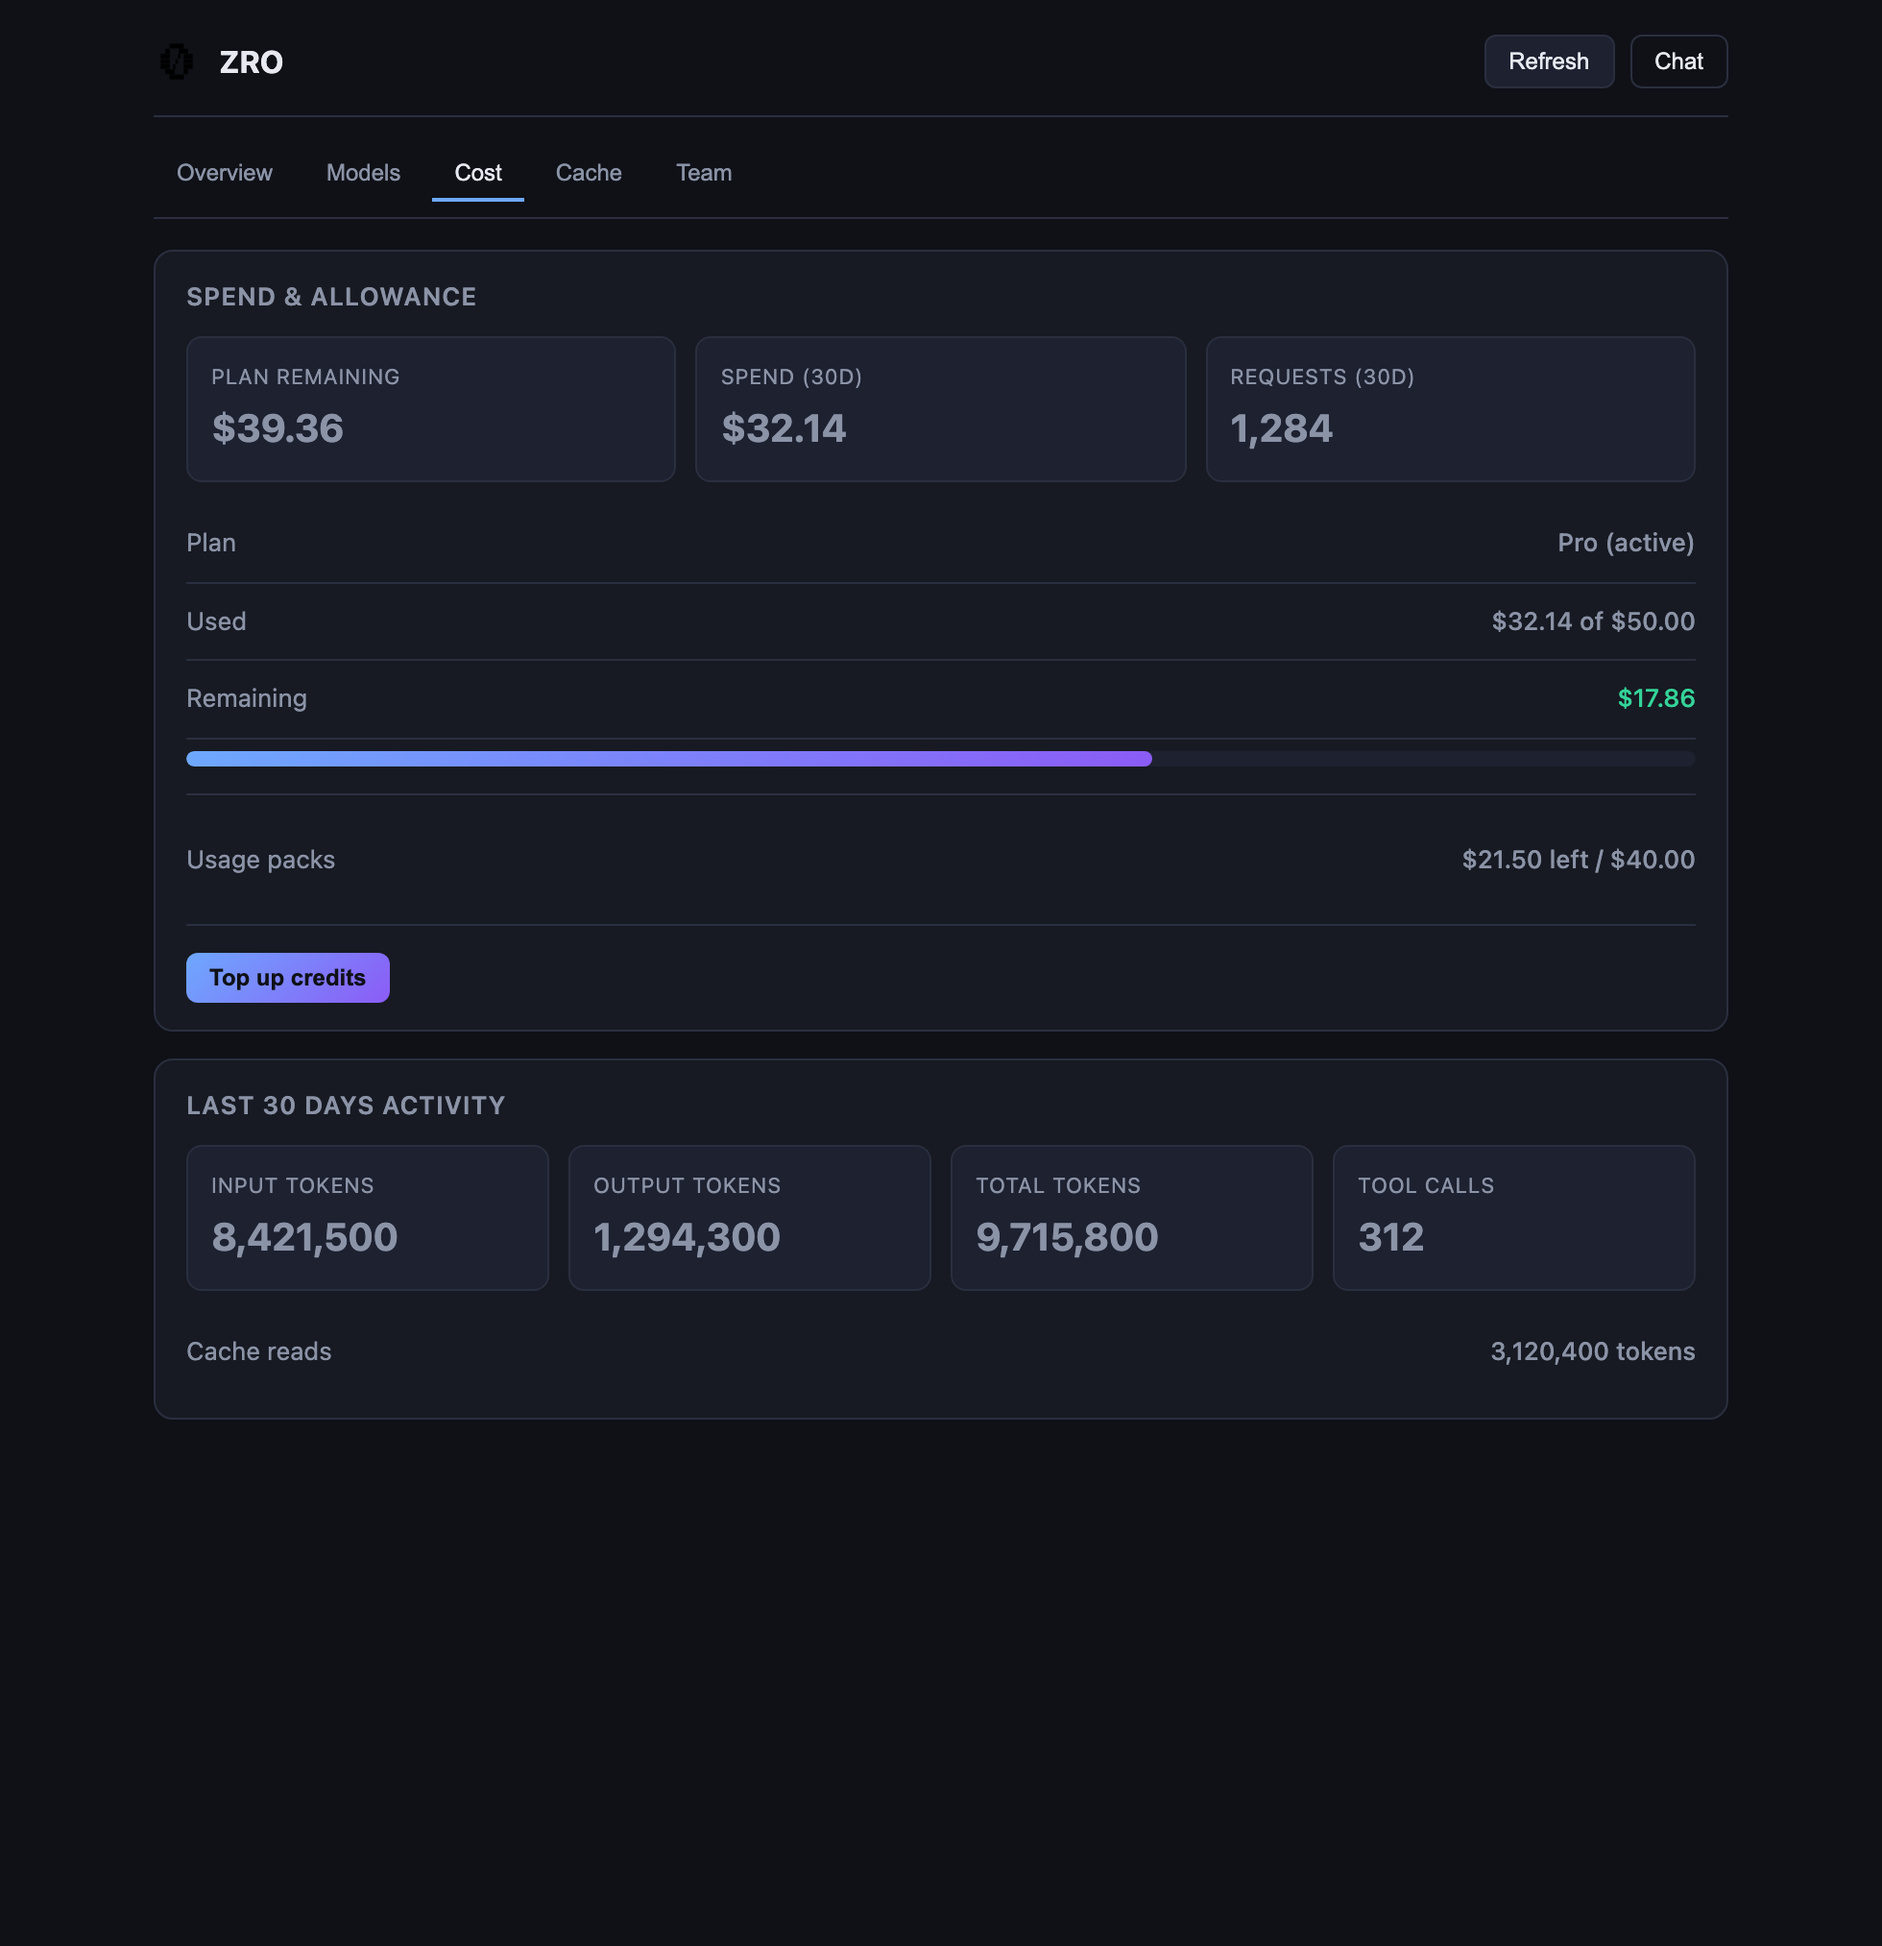
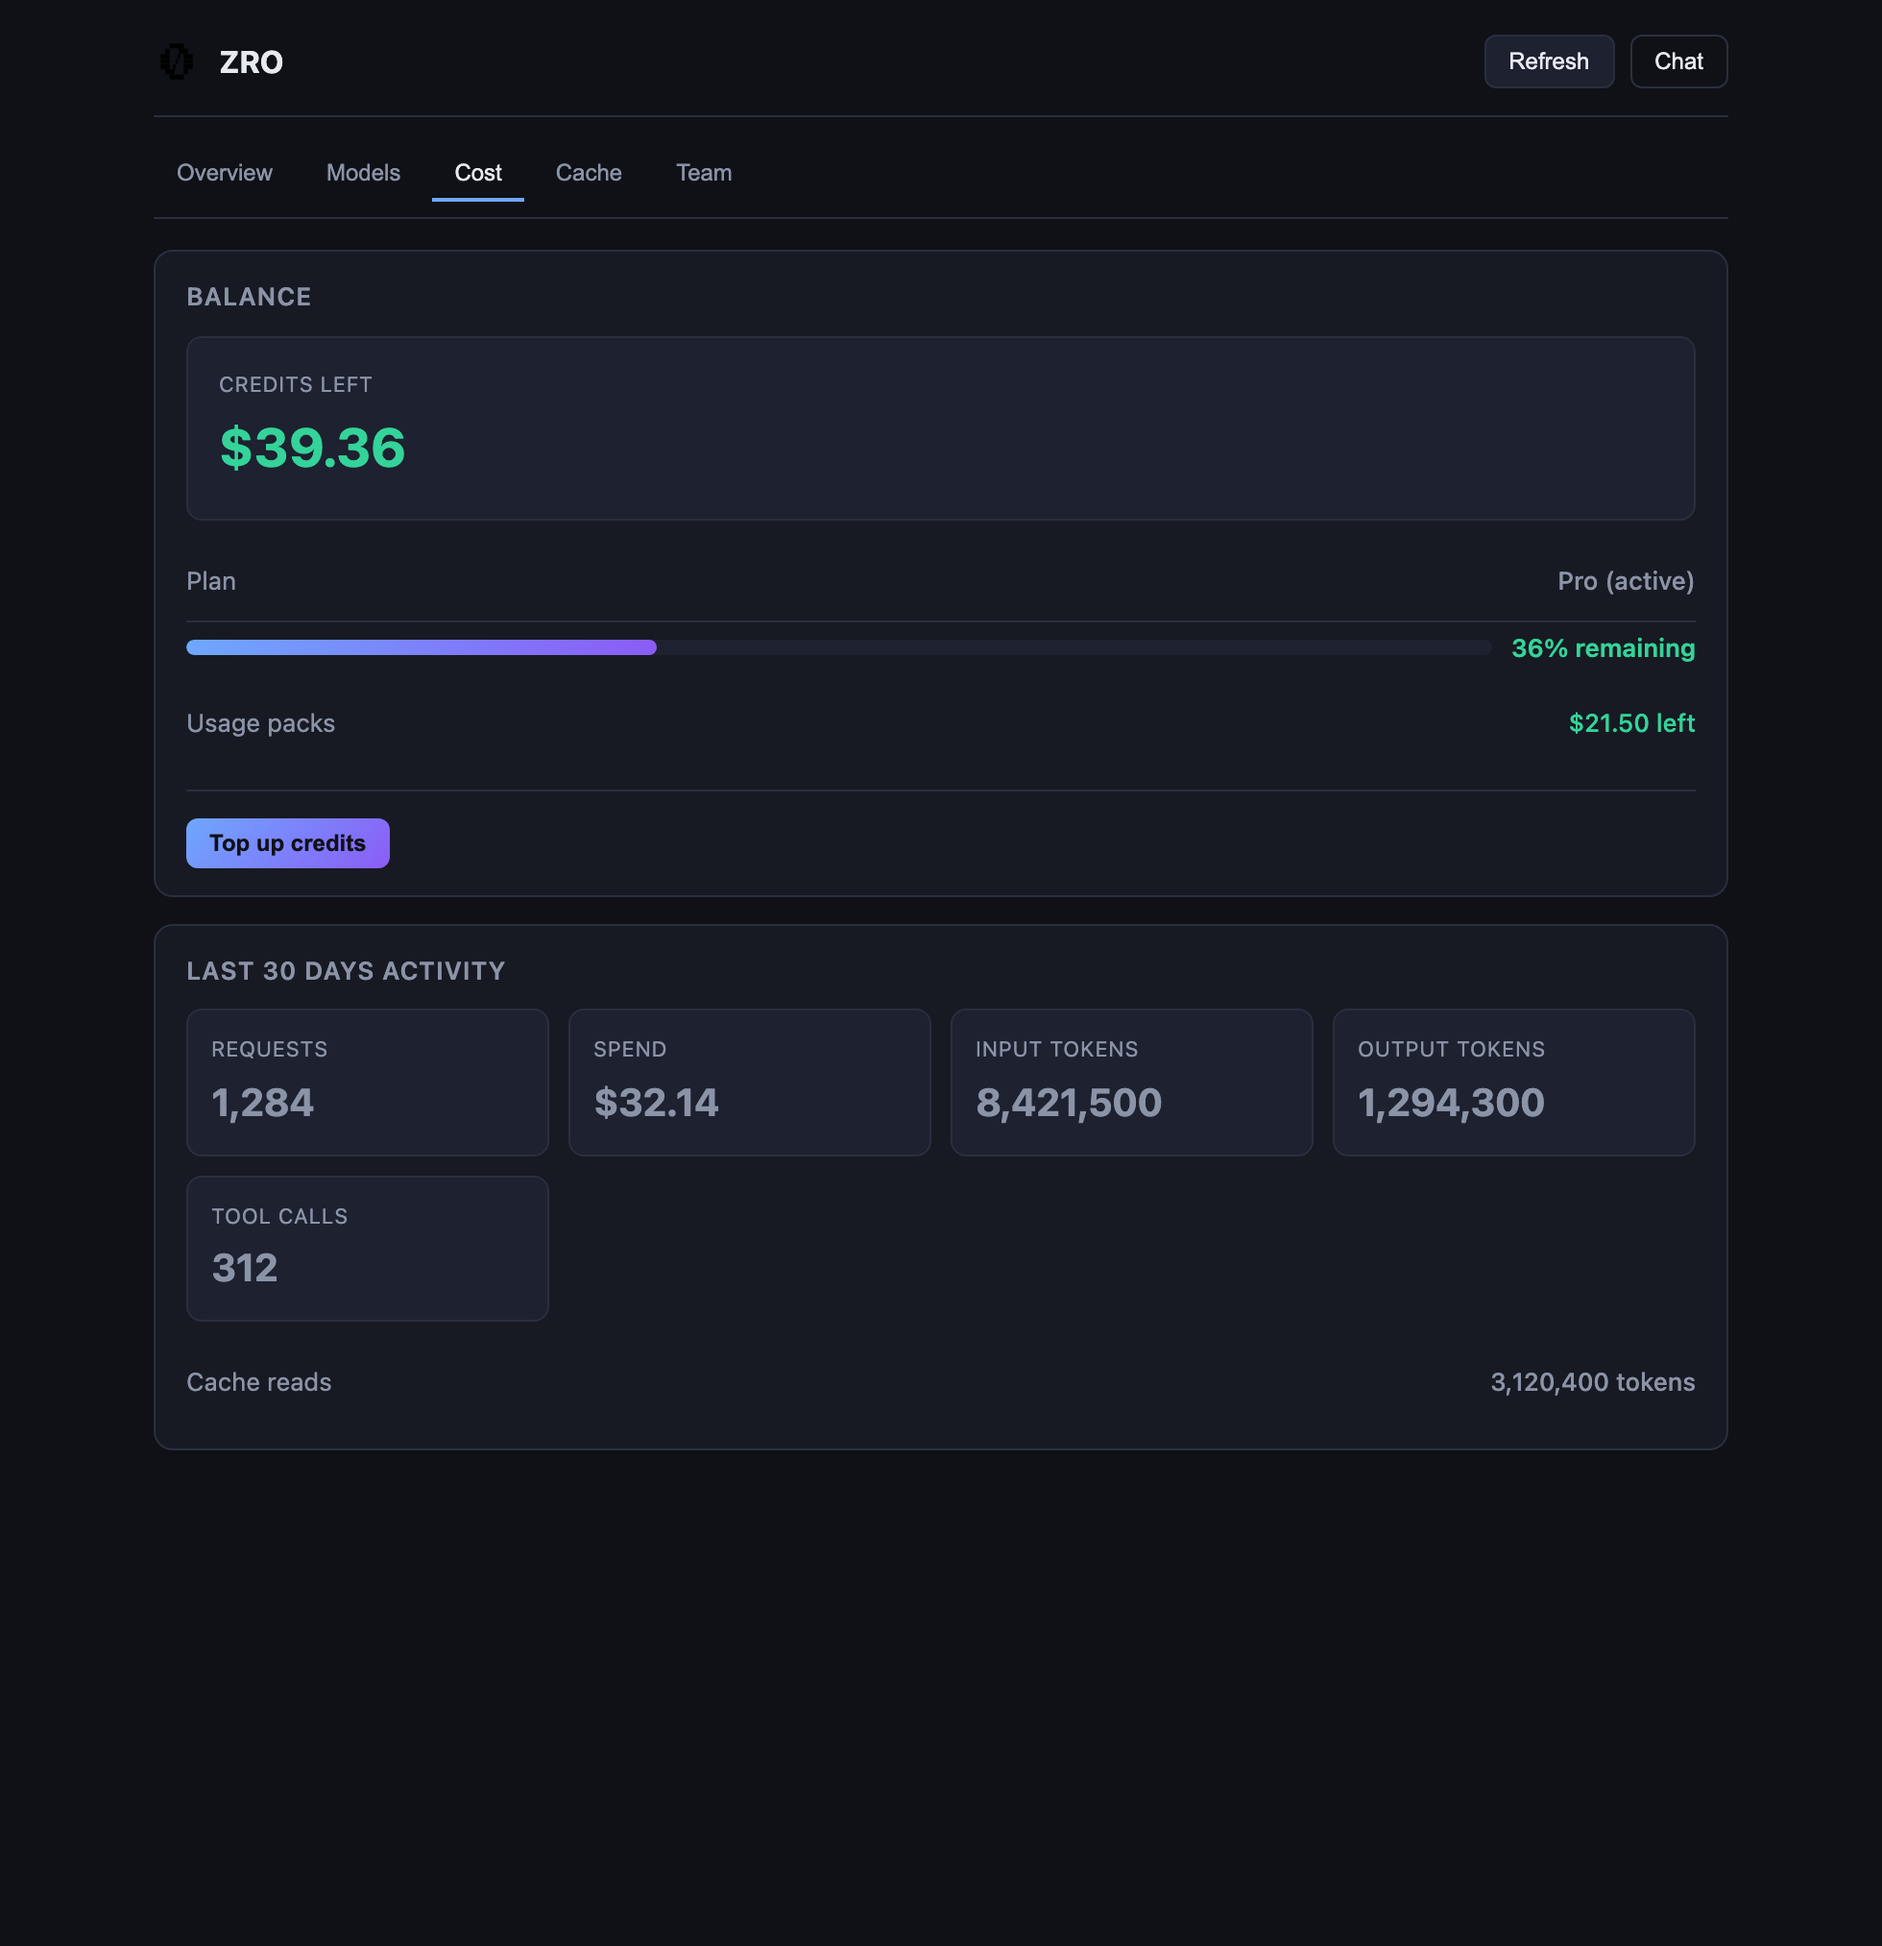
feat: enhance dashboard and screenshot harness with improved metrics display

diff --git a/vscode-extension/scripts/screenshot-harness.html b/vscode-extension/scripts/screenshot-harness.html
@@ -61,6 +61,16 @@
     .metric { background: var(--panel-2); border: 1px solid var(--border); border-radius: 8px; padding: 12px; }
     .metric .k { color: var(--muted); font-size: 11px; text-transform: uppercase; letter-spacing: .03em; }
     .metric .v { font-size: 20px; font-weight: 700; margin-top: 4px; }
+    .metric.hero { padding: 16px; margin-bottom: 12px; }
+    .metric.hero .v { font-size: 28px; }
+    .metric.hero .v.good { color: var(--good); }
+    .metric.hero .v.bad { color: var(--bad); }
+
+    .plantrack { display: flex; align-items: center; gap: 10px; padding: 4px 0 10px; }
+    .plantrack .bar { flex: 1; margin: 0; }
+    .plantrack .value { font-weight: 600; white-space: nowrap; }
+    .plantrack .value.good { color: var(--good); }
+    .plantrack .value.bad { color: var(--bad); }
 
     .bar { height: 8px; background: var(--panel-2); border-radius: 4px; overflow: hidden; margin: 6px 0; }
     .bar > span { display: block; height: 100%; background: linear-gradient(90deg, var(--accent), var(--accent-2)); border-radius: 4px; }
@@ -150,7 +160,7 @@
     <!-- Cost -->
     <section class="pane" id="pane-cost">
       <div class="card">
-        <h3>Spend &amp; allowance</h3>
+        <h3>Balance</h3>
         <div id="cost-body" class="muted">Loading…</div>
         <div class="divider"></div>
         <div class="actions">
@@ -328,34 +338,28 @@
         const billing = a.billing;
         const money = (n) => fmtMoney(n, billing.currency);
         const plan = billing.plan;
-        let planHtml = '';
-        if (plan) {
-          const usedPct = pct(plan.used, plan.allowance);
-          planHtml = `
+        const remainingPct = plan ? pct(plan.remaining, plan.allowance) : 0;
+        const planHtml = plan
+          ? `
             <div class="row"><span class="label">Plan</span><span class="value">${plan.name} (${billing.status})</span></div>
-            <div class="row"><span class="label">Used</span><span class="value">${money(plan.used)} of ${money(plan.allowance)}</span></div>
-            <div class="row"><span class="label">Remaining</span><span class="value ${plan.remaining > 0 ? 'good' : 'bad'}">${money(plan.remaining)}</span></div>
-            <div class="bar"><span style="width:${usedPct}%"></span></div>`;
-        } else {
-          planHtml = `<div class="row"><span class="label">Plan</span><span class="value muted">None</span></div>`;
-        }
+            <div class="plantrack">
+              <div class="bar"><span style="width:${remainingPct}%"></span></div>
+              <div class="value ${plan.remaining > 0 ? 'good' : 'bad'}">${remainingPct}% remaining</div>
+            </div>`
+          : `<div class="row"><span class="label">Plan</span><span class="value muted">None</span></div>`;
         const packs = billing.usagePacks;
         $('#cost-body').innerHTML = `
-          <div class="metrics">
-            <div class="metric"><div class="k">Plan remaining</div><div class="v">${money(billing.totalRemaining)}</div></div>
-            <div class="metric"><div class="k">Spend (30d)</div><div class="v">${money(a.activity30d.spend)}</div></div>
-            <div class="metric"><div class="k">Requests (30d)</div><div class="v">${fmtNum(a.activity30d.requests)}</div></div>
-          </div>
+          <div class="metric hero"><div class="k">Credits left</div><div class="v ${billing.totalRemaining > 0 ? 'good' : 'bad'}">${money(billing.totalRemaining)}</div></div>
           ${planHtml}
-          <div class="divider"></div>
-          <div class="row"><span class="label">Usage packs</span><span class="value">${money(packs.remaining)} left / ${money(packs.total)}</span></div>
+          <div class="row"><span class="label">Usage packs</span><span class="value ${packs.remaining > 0 ? 'good' : 'muted'}">${money(packs.remaining)} left</span></div>
         `;
         const act = a.activity30d;
         $('#cost-activity').innerHTML = `
           <div class="metrics">
+            <div class="metric"><div class="k">Requests</div><div class="v">${fmtNum(act.requests)}</div></div>
+            <div class="metric"><div class="k">Spend</div><div class="v">${money(act.spend)}</div></div>
             <div class="metric"><div class="k">Input tokens</div><div class="v">${fmtNum(act.inputTokens)}</div></div>
             <div class="metric"><div class="k">Output tokens</div><div class="v">${fmtNum(act.outputTokens)}</div></div>
-            <div class="metric"><div class="k">Total tokens</div><div class="v">${fmtNum(act.totalTokens)}</div></div>
             <div class="metric"><div class="k">Tool calls</div><div class="v">${fmtNum(act.toolCalls)}</div></div>
           </div>
           <div class="row"><span class="label">Cache reads</span><span class="value">${fmtNum(act.cacheReadInputTokens)} tokens</span></div>

diff --git a/vscode-extension/media/dashboard.html b/vscode-extension/media/dashboard.html
@@ -62,6 +62,16 @@
     .metric { background: var(--panel-2); border: 1px solid var(--border); border-radius: 8px; padding: 12px; }
     .metric .k { color: var(--muted); font-size: 11px; text-transform: uppercase; letter-spacing: .03em; }
     .metric .v { font-size: 20px; font-weight: 700; margin-top: 4px; }
+    .metric.hero { padding: 16px; margin-bottom: 12px; }
+    .metric.hero .v { font-size: 28px; }
+    .metric.hero .v.good { color: var(--good); }
+    .metric.hero .v.bad { color: var(--bad); }
+
+    .plantrack { display: flex; align-items: center; gap: 10px; padding: 4px 0 10px; }
+    .plantrack .bar { flex: 1; margin: 0; }
+    .plantrack .value { font-weight: 600; white-space: nowrap; }
+    .plantrack .value.good { color: var(--good); }
+    .plantrack .value.bad { color: var(--bad); }
 
     .bar { height: 8px; background: var(--panel-2); border-radius: 4px; overflow: hidden; margin: 6px 0; }
     .bar > span { display: block; height: 100%; background: linear-gradient(90deg, var(--accent), var(--accent-2)); border-radius: 4px; }
@@ -151,7 +161,7 @@
     <!-- Cost -->
     <section class="pane" id="pane-cost">
       <div class="card">
-        <h3>Spend &amp; allowance</h3>
+        <h3>Balance</h3>
         <div id="cost-body" class="muted">Loading…</div>
         <div class="divider"></div>
         <div class="actions">
@@ -315,34 +325,26 @@
         const billing = a.billing;
         const money = (n) => fmtMoney(n, billing.currency);
         const plan = billing.plan;
-        let planHtml = '';
-        if (plan) {
-          const usedPct = pct(plan.used, plan.allowance);
-          planHtml = `
-            <div class="row"><span class="label">Plan</span><span class="value">${plan.name} (${billing.status})</span></div>
-            <div class="row"><span class="label">Used</span><span class="value">${money(plan.used)} of ${money(plan.allowance)}</span></div>
-            <div class="row"><span class="label">Remaining</span><span class="value ${plan.remaining > 0 ? 'good' : 'bad'}">${money(plan.remaining)}</span></div>
-            <div class="bar"><span style="width:${usedPct}%"></span></div>`;
-        } else {
-          planHtml = `<div class="row"><span class="label">Plan</span><span class="value muted">None</span></div>`;
-        }
+        const remainingPct = plan && plan.allowance > 0 ? +((plan.remaining / plan.allowance) * 100).toFixed(1) : 0;
+        const planHtml = plan
+          ? `
+            <div class="metric hero"><div class="k">Plan remaining</div><div class="v ${plan.remaining > 0 ? 'good' : 'bad'}">${remainingPct}%</div></div>
+            <div class="plantrack">
+              <div class="bar"><span style="width:${remainingPct}%"></span></div>
+            </div>`
+          : `<div class="row"><span class="label">Plan</span><span class="value muted">None</span></div>`;
         const packs = billing.usagePacks;
         $('#cost-body').innerHTML = `
-          <div class="metrics">
-            <div class="metric"><div class="k">Plan remaining</div><div class="v">${money(billing.totalRemaining)}</div></div>
-            <div class="metric"><div class="k">Spend (30d)</div><div class="v">${money(a.activity30d.spend)}</div></div>
-            <div class="metric"><div class="k">Requests (30d)</div><div class="v">${fmtNum(a.activity30d.requests)}</div></div>
-          </div>
           ${planHtml}
-          <div class="divider"></div>
-          <div class="row"><span class="label">Usage packs</span><span class="value">${money(packs.remaining)} left / ${money(packs.total)}</span></div>
+          <div class="row"><span class="label">Usage packs</span><span class="value ${packs.remaining > 0 ? 'good' : 'muted'}">${money(packs.remaining)} left</span></div>
         `;
         const act = a.activity30d;
         $('#cost-activity').innerHTML = `
           <div class="metrics">
+            <div class="metric"><div class="k">Requests</div><div class="v">${fmtNum(act.requests)}</div></div>
+            <div class="metric"><div class="k">Spend</div><div class="v">${money(act.spend)}</div></div>
             <div class="metric"><div class="k">Input tokens</div><div class="v">${fmtNum(act.inputTokens)}</div></div>
             <div class="metric"><div class="k">Output tokens</div><div class="v">${fmtNum(act.outputTokens)}</div></div>
-            <div class="metric"><div class="k">Total tokens</div><div class="v">${fmtNum(act.totalTokens)}</div></div>
             <div class="metric"><div class="k">Tool calls</div><div class="v">${fmtNum(act.toolCalls)}</div></div>
           </div>
           <div class="row"><span class="label">Cache reads</span><span class="value">${fmtNum(act.cacheReadInputTokens)} tokens</span></div>
